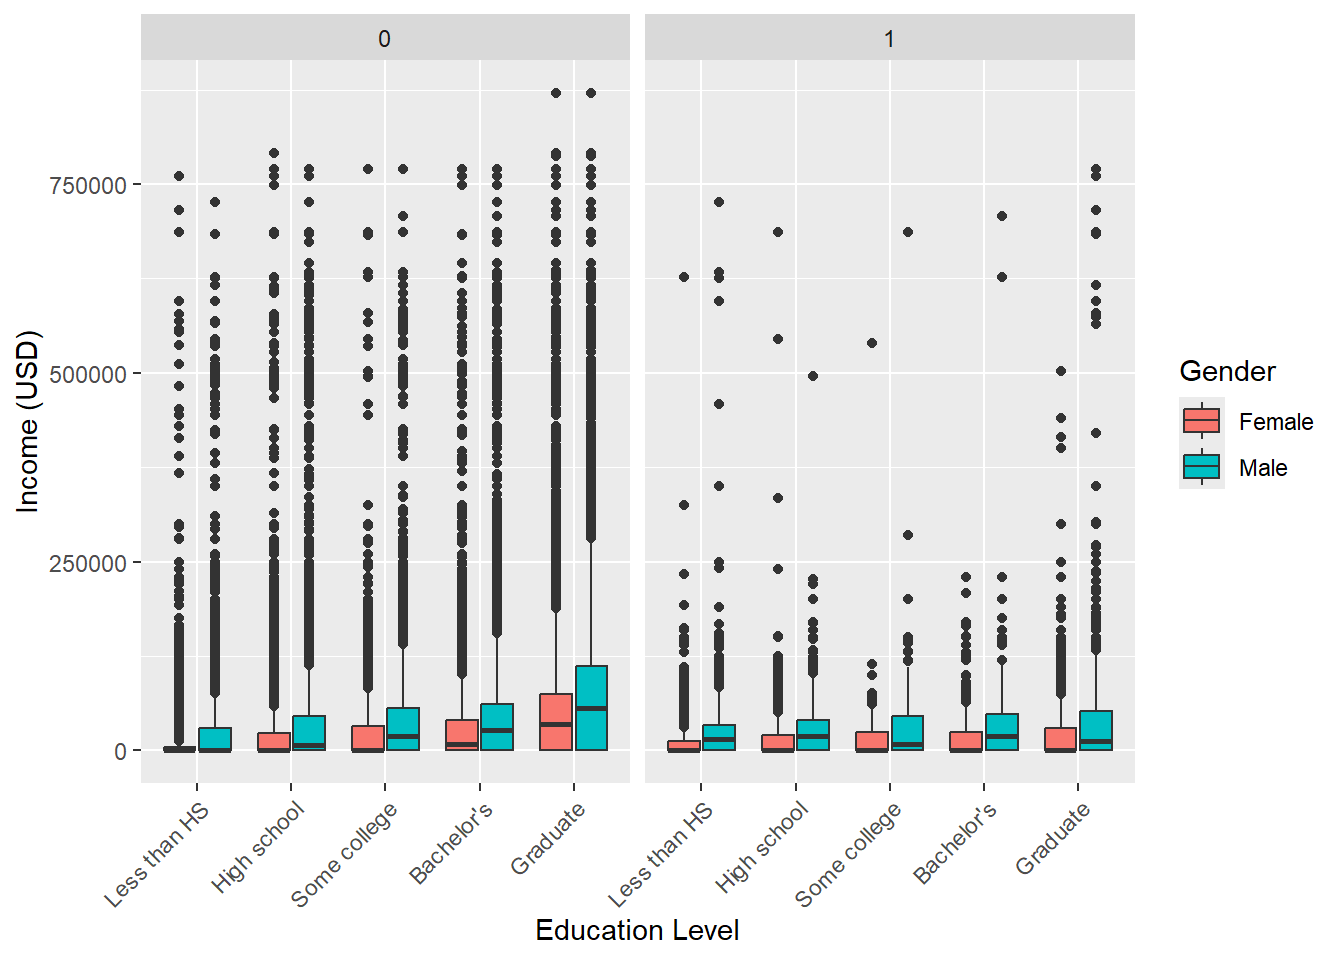
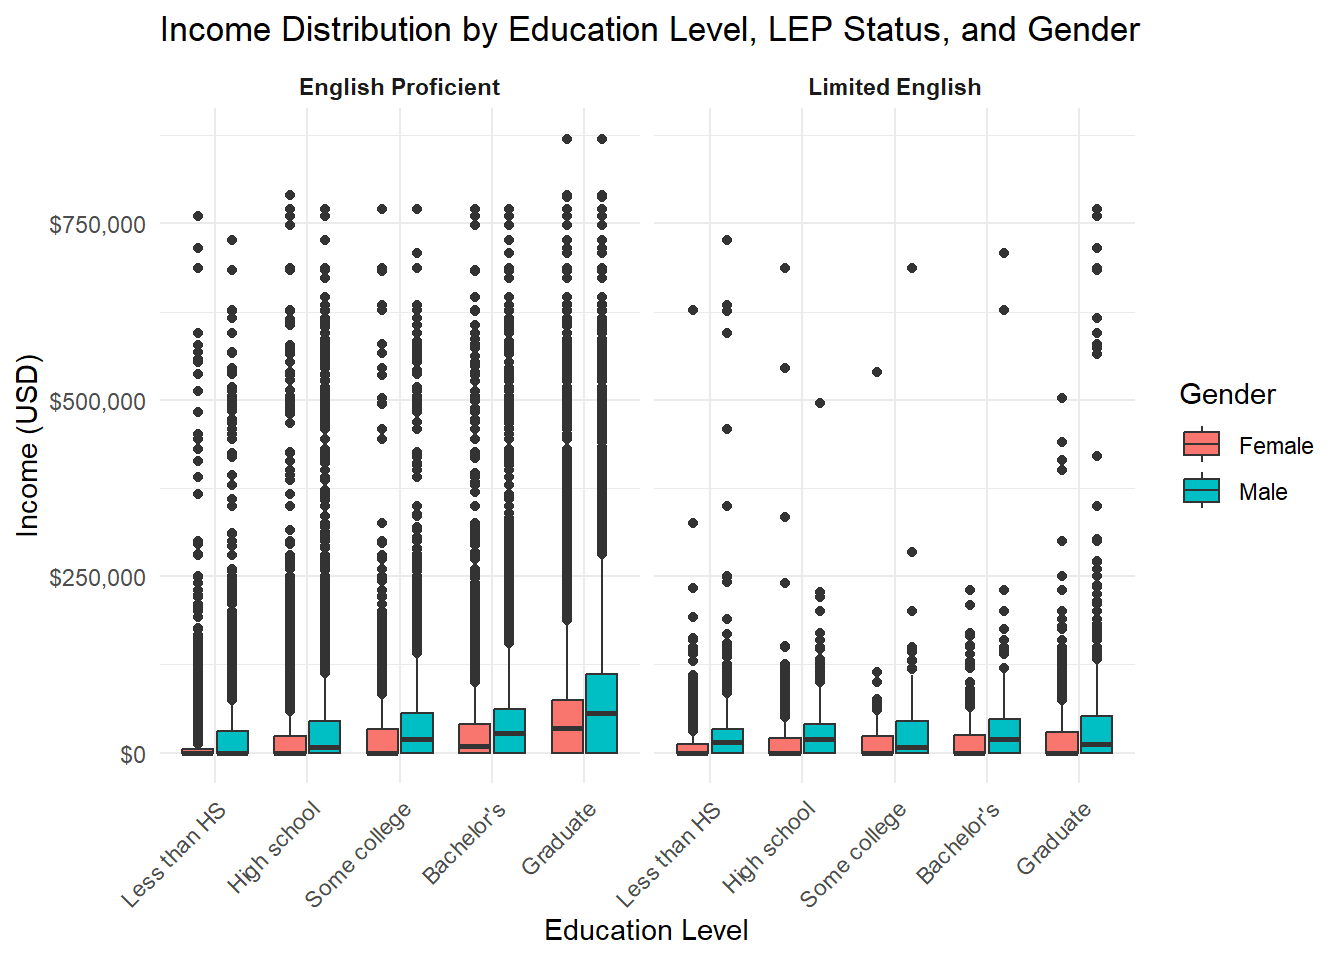
Built site for gh-pages

diff --git a/index.html b/index.html
@@ -161,7 +161,7 @@ ul.task-list li input[type="checkbox"] {
 </div>
 </div>
 </div>
-<p>Language proficiency is one of the key requirements in almost every job posting, and being proficient in a language can open new doors for an individual. Using a sample of data drawn from the American Community Surveys (U.S. Census) of 2021-2023, I seek to examine the effect of Limited English proficiency on a person’s income in the USA. I used R to look at the insights into how Limited English Proficiency (LEP) effects a person’s wage when controling education level and gender. I modeled a person’s income, as a linear function of her English profiency, education level, and gender. The proficiency does not have a notable influence on income, however education level significantly influence predicted income. At every education level and gender disparities, individuals earning substantially less than individuals with higher levels of education.</p>
+<p>Language proficiency is one of the key requirements in almost every job posting, and being proficient in a language can open new doors for an individual. Using a sample of data drawn from the American Community Surveys (U.S. Census) of 2021-2023, I seek to examine the effect of Limited English proficiency on a person’s income in the USA. I used R to look at the insights into how Limited English Proficiency (LEP) effects a person’s wage when controling education level and gender. I modeled a person’s income, as a linear function of her English profiency, education level, and gender. Predicted income increases substantially with education, but is significantly shaped by English proficiency and gender—English Proficient males with graduate degrees earn up to $4,000, while Limited English females with the same education earn less than $1,200, revealing compounding disparities across language and gender lines.</p>
 
 
 
